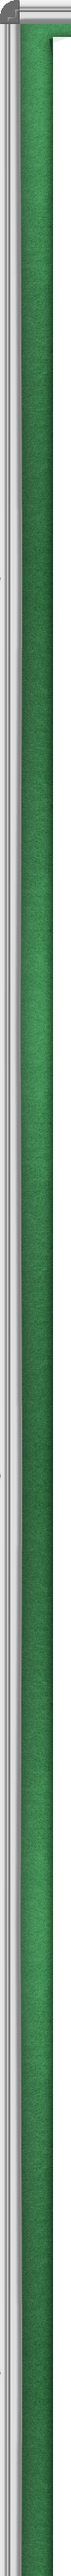
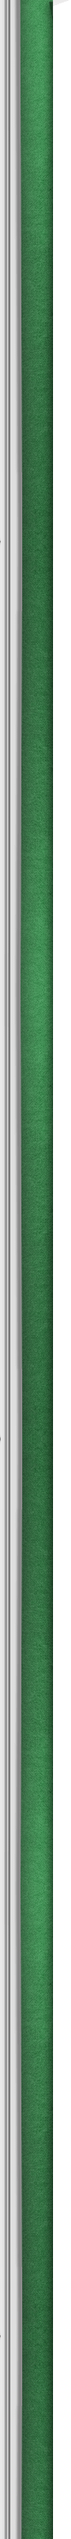
Changes for issue #154 repeated border on leader board

Changed region(s): [[0.0, 0.0, 1.0, 0.0311], [0.2892, 0.1867, 0.3133, 0.2178]]

diff --git a/public/stylesheets/style.css b/public/stylesheets/style.css
@@ -3229,20 +3229,46 @@ filter:alpha(opacity="0");
 	height:100%;
 	padding-right:120px;/*margin: -62px 0 0;*/
 }
-.leader_board_left {
+/*-------- old css --------*/
+/*.leader_board_left {
 	background:url(../images/leaderbg_left.png) 0 0px no-repeat;
 	padding-left:83px;
 	height:100%;
+}*/
+
+.leader_board_left {
+	background:url(../images/leaderbg_left.png) left 0 repeat-y;
+	padding-left:83px;
+	height:100%;
 }
+
+/*-------- old css --------*/
+/*
 .leader_board_right {
 	background:url(../images/leaderbg_right.png) right 0px no-repeat;
 	padding-right:83px;
 	height:100%;
+}*/
+
+.leader_board_right {
+	background:url(../images/leaderbg_right.png) right 0 repeat-y;
+	padding-right:83px;
+	height:100%;
 }
-.leader_board_center {
+
+/*-------- old css --------*/
+/*.leader_board_center {
 	background:url(../images/leaderbg_middle.png) 0 0px repeat-x;
+	height:732px;
+  height:100%;
+}*/
+
+
+.leader_board_center {
+	background:url(../images/leaderbg_middle.png) 0 125px repeat-x;
 	/*height:732px;*/
   height:100%;
+  background:#ffffff;
 }
 .leader_pad_top {
 	width:100%;
@@ -3412,10 +3438,18 @@ filter:alpha(opacity="0");
 .LBT_name .course_txt {
 	font-size:11px;
 }
+/* old css
 .steel_pin {
 	text-align:center;
 	height:50px;
 	margin:-20px 0 0 0
+}
+*/
+.steel_pin {
+	text-align:center;
+	height:50px;
+	margin:-17px 0 0 0;
+	position:relative;
 }
 .leader_topselect {
 	height:30px;
@@ -4203,3 +4237,11 @@ font-family: 'CollegeRegular',Arial,Helvetica,sans-serif;
     z-index: 2;
 }
 
+/* ----------------------------------- add style for leader board border repeat ----------------------------*/
+.leftimg{ background:url(../images/top-left-repeat.png) no-repeat; width:83px; height:43px;}
+.rightimg{ background:url(../images/top-right-repeat.png) no-repeat; width:83px; height:43px;}
+.centerimg{ background:url(../images/repeat-center.png) repeat-x; height:43px; float:left; width:100%;}
+.container_tipshelp { display: table; }
+.container_tipshelp .tops_row { display: table-row;  }
+.container_tipshelp .tops_row .panel { display: table-cell;color:#fff;vertical-align:top;}
+.pr120{ padding-right:120px !important;}
